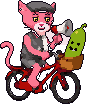
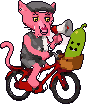
Pooh's Punch Out v1.2.13: shoes face the right way everywhere, intro stride runs forward, Pinco long panther snout

Changed region(s): [[0.3908, 0.1731, 0.5747, 0.3462]]

diff --git a/punchout/index.html b/punchout/index.html
@@ -63,8 +63,8 @@ html[lang=ja] .card .nm{font-size:calc(var(--px)*12)}
 .sym{display:inline-block;width:calc(var(--px)*7);height:calc(var(--px)*7);vertical-align:middle}
 @media (orientation:landscape) and (max-height:500px){.card .th{width:calc(var(--px)*28);height:calc(var(--px)*28)}.card{min-height:44px;margin:var(--p2) 0;padding:var(--p2) var(--p4)}}
 </style></head><body><canvas id="c"></canvas><div id="ui"></div>
-<script>window.__BUILD__='v1.2.12';</script>
-<script>const PXS={"party_idle": [168], "party_tell": [171], "party_punch": [168], "party_hurt": [165], "party_ko": [160], "party_down": [50], "kermit_idle": [160], "kermit_tell": [154], "kermit_punch": [160], "kermit_hurt": [152], "kermit_ko": [153], "kermit_down": [59], "bronny_idle": [178], "bronny_tell": [178], "bronny_punch": [178], "bronny_hurt": [172], "bronny_ko": [172], "bronny_down": [55], "pooping_idle": [126], "pooping_tell": [132], "pooping_punch": [129], "pooping_hurt": [118], "pooping_ko": [128], "pooping_down": [62], "asmon_idle": [164], "asmon_tell": [164], "asmon_punch": [165], "asmon_hurt": [154], "asmon_ko": [154], "asmon_down": [44], "pooh_back_idle": [77], "pooh_back_jab": [142], "pooh_front": [145], "pooh_victory_body": [147], "pooh_run_body": [111], "shoeL": [16], "shoeR": [16], "run_shoeL": [14], "run_shoeR": [14], "pinco_coach": [112], "bean_cheer": [94], "bike": [104], "pooh_front_lg": [191], "shoe_lgL": [21], "shoe_lgR": [21], "pooh_back_jab1": [142], "pooh_back_jab2": [142], "pooh_back_body2": [142], "pooh_back_body": [142], "shoe_fL": [10], "shoe_fR": [10], "kermit_wind": [154], "bronny_wind": [178], "party_wind": [171], "asmon_wind": [164], "pooping_wind": [132], "pooh_back_jab1_arm": [142], "pooh_back_jab2_arm": [142], "pooh_back_jab_arm": [142], "pooh_back_body2_arm": [142], "pooh_back_body_arm": [142]};
+<script>window.__BUILD__='v1.2.13';</script>
+<script>const PXS={"party_idle": [168], "party_tell": [171], "party_punch": [168], "party_hurt": [165], "party_ko": [160], "party_down": [50], "kermit_idle": [160], "kermit_tell": [154], "kermit_punch": [160], "kermit_hurt": [152], "kermit_ko": [153], "kermit_down": [59], "bronny_idle": [178], "bronny_tell": [178], "bronny_punch": [178], "bronny_hurt": [172], "bronny_ko": [172], "bronny_down": [55], "pooping_idle": [126], "pooping_tell": [132], "pooping_punch": [129], "pooping_hurt": [118], "pooping_ko": [128], "pooping_down": [62], "asmon_idle": [164], "asmon_tell": [164], "asmon_punch": [165], "asmon_hurt": [154], "asmon_ko": [154], "asmon_down": [44], "pooh_back_idle": [77], "pooh_back_jab": [142], "pooh_front": [145], "pooh_victory_body": [147], "pooh_run_body": [111], "shoeL": [13], "shoeR": [13], "run_shoeL": [14], "run_shoeR": [14], "pinco_coach": [112], "bean_cheer": [94], "bike": [104], "pooh_front_lg": [191], "shoe_lgL": [17], "shoe_lgR": [17], "pooh_back_jab1": [142], "pooh_back_jab2": [142], "pooh_back_body2": [142], "pooh_back_body": [142], "shoe_fL": [10], "shoe_fR": [10], "kermit_wind": [154], "bronny_wind": [178], "party_wind": [171], "asmon_wind": [164], "pooping_wind": [132], "pooh_back_jab1_arm": [142], "pooh_back_jab2_arm": [142], "pooh_back_jab_arm": [142], "pooh_back_body2_arm": [142], "pooh_back_body_arm": [142]};
 'use strict';
 // ===== Canvas / scaling =====
 const C=document.getElementById('c'),UI=document.getElementById('ui');let X=C.getContext('2d');const X0=X;
@@ -979,7 +979,7 @@ fightScene=function(oi,replay){const sc=_fs(oi,replay);const d0=sc.draw,u0=sc.up
 // ===== Intro: dawn run with the bike =====
 function skipBtn(cb){const sk=el('<div class="ghost" style="position:absolute;right:14px;top:calc(14px + var(--st));pointer-events:auto;display:flex;align-items:center;gap:6px;z-index:3">'+T('skip')+' <span style="width:18px;display:inline-flex">'+ICO.skip.replace('<svg','<svg style="width:18px;height:18px;fill:#fff"')+'</span></div>');sk.onclick=e=>{e.stopPropagation();AU.init();AU.play('ui');cb()};UI.appendChild(sk);return sk;}
 function drawRunner(x,y,h,t,o){o=o||{};const B=IMG.pooh_run_body;if(!B||!B.width)return;const k=KF(B,h*.78),g=1/DPR,bh=B.height*k*g,cyc=t*10;const bob=GPX(Math.round(Math.abs(Math.sin(cyc))*3)*k);
- const S=IMG.run_shoeL,sh=(S&&S.width?S.height:10)*k*g;[[0,IMG.run_shoeL],[Math.PI,IMG.run_shoeR]].forEach(([ph,img])=>{const a=cyc+ph;spr(img,x+GPX(Math.round(Math.cos(a)*bh*.24*DPR)),y-GPX(Math.round(Math.max(0,Math.sin(a))*bh*.1*DPR)),sh,{k})});
+ const S=IMG.run_shoeL,sh=(S&&S.width?S.height:10)*k*g;[[0,IMG.run_shoeL],[Math.PI,IMG.run_shoeR]].forEach(([ph,img])=>{const a=cyc+ph;spr(img,x+GPX(Math.round(-Math.cos(a)*bh*.24*DPR)),y-GPX(Math.round(Math.max(0,Math.sin(a))*bh*.1*DPR)),sh,{k})});
  spr(B,x,y-sh-g*k*3-bob,bh,{k});
  X.save();X.globalAlpha=.5;X.fillStyle='#fff';for(let j=0;j<3;j++){const yy=y-bh*(.45+j*.2),ln=bh*(.3+.12*Math.sin(t*7+j));const xx=x-bh*.55-((t*600+j*80)%60);X.fillRect(PX(xx-ln),PX(yy),PX(ln),2*g)}X.restore();}
 function bubble(s,x,y,col,tailX,a,maxw){if(a<=0)return;X.save();X.globalAlpha=Math.min(1,a);const ls=wrap(s,(maxw||W*.6)-26,19,1);X.font='700 19px '+FB();const w=Math.max(...ls.map(l=>X.measureText(l).width))+28,h=ls.length*24+20;const bx=clamp(x-w/2,8,W-w-8);
@@ -1092,7 +1092,7 @@ function trainGame(kind,done){let t=0,score=0,over=false,fb=[],jab={s:'L',t:9};c
   if(kind==='dd'){if(pl.s==='dodge'){x+=(pl.d==='L'?-1:1)*W*.25;o.rot=(pl.d==='L'?-.15:.15)}else if(pl.s==='duck'){y+=ph*.25}}
   else if(jab.t<.15){img=IMG.pooh_back_jab;o.flip=jab.s==='R';y-=ph*.06}
   const kk=1;o.k=kk;// same whole-number scale as Pinco in the training scenes
-  const sh=ph*.17,bw=NH('pooh_back_idle')*kk;spr(IMG.shoeL,x-bw*.22,pb+bw*.2+GPX(Math.round(Math.sin(t*5)*2)),sh,{k:kk});spr(IMG.shoeR,x+bw*.22,pb+bw*.2+GPX(Math.round(Math.sin(t*5+2)*2)),sh,{k:kk});spr(img,x,y,ph,o);
+  const sh=ph*.17,bw=NH('pooh_back_idle')*kk;spr(IMG.shoe_fL,x-bw*.22,pb+bw*.2+GPX(Math.round(Math.sin(t*5)*2)),sh,{k:kk});spr(IMG.shoe_fR,x+bw*.22,pb+bw*.2+GPX(Math.round(Math.sin(t*5+2)*2)),sh,{k:kk});spr(img,x,y,ph,o);
   if(splat>0){X.save();X.globalAlpha=splat;X.fillStyle='#d8201c';for(let k=0;k<9;k++){const a=k*.7,r=Math.min(W,H)*(.1+.05*(k%3));X.beginPath();X.arc(W/2+Math.cos(a)*W*.2,H*.5+Math.sin(a)*H*.12,r,0,7);X.fill()}X.restore()}
   fb.forEach(f=>txt(f.s,W/2,H*.62-(.6-f.t)*60,30,f.c,{}));
   if(t<1.2)txt(T('go'),W/2,H*.55,70*(1+Math.max(0,.3-t)),'#fff',{grad:['#fff6b0','#ffc400'],st:'#000',lw:10});
